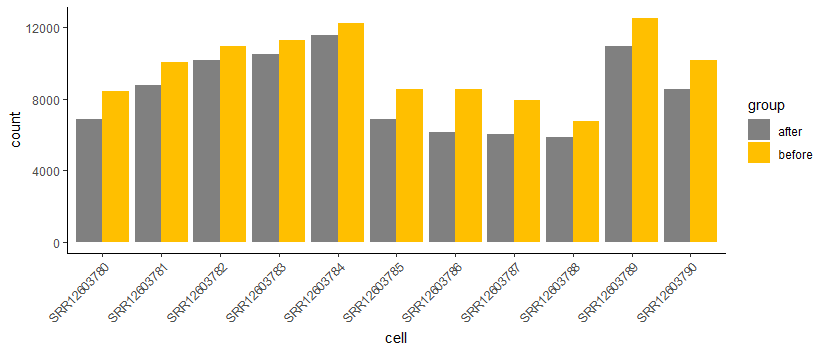
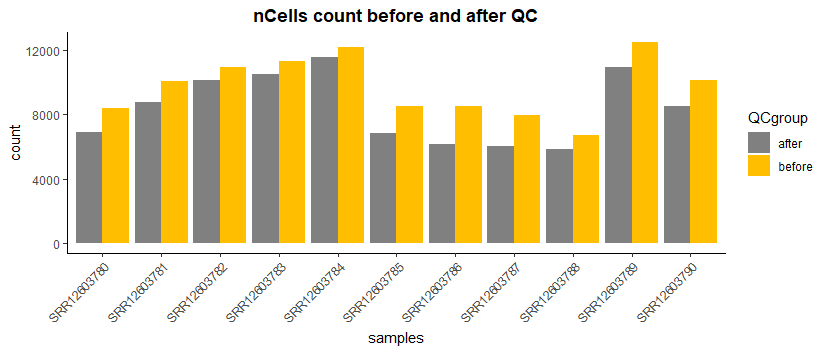
Add nUMI_nGene_mitoRatio

diff --git a/README.md b/README.md
@@ -398,12 +398,12 @@ metadata_clean <- filtered_seurat@meta.data
 # to see drop in filtering cells:
 
 met_before <- data.frame(unclass(table(metadata$seq_folder)))
-met_before$group <- "before"
+met_before$QCgroup <- "before"
 met_before$cell<- rownames(met_before)
 names(met_before)[1] <- 'count'
 
 met_after <- data.frame(unclass(table(metadata_clean$seq_folder)))
-met_after$group <- "after"
+met_after$QCgroup <- "after"
 met_after$cell<- rownames(met_after)
 names(met_after)[1] <- 'count'
 # count
@@ -411,63 +411,34 @@ cell_count <- data.frame(rbind(met_before, met_after))
 
                                 
 # visualization :
-cell_count %>% ggplot(aes(x=cell, y=count, fill=group)) + 
+cell_count %>% ggplot(aes(x=cell, y=count, fill=QCgroup)) + 
   geom_bar(stat="identity", position=position_dodge()) +
   theme_classic() +
   theme(axis.text.x = element_text(angle = 45, vjust = 1, hjust=1)) +
   theme(plot.title = element_text(hjust=0.5, face="bold")) +
-  scale_fill_manual(values = c("#808080", "#FFBF00"))
+  scale_fill_manual(values = c("#808080", "#FFBF00")) +
+  xlab("samples") +
   ggtitle("nCells count before and after QC")
 ```
 ![cell_countbefore_after_plot](https://github.com/hamidghaedi/scRNA_seq-analysis/blob/main/images/before_after_cell_count.png)
 
 ```r
-# Visualize the number UMIs/transcripts per cell
-metadata_clean %>% 
-  ggplot(aes(color=seq_folder, x=nUMI, fill= sample)) + 
-  geom_density(alpha = 0.2) + 
-  scale_x_log10() + 
-  theme_classic() +
-  ylab("Cell density") +
-  geom_vline(xintercept = 500)
-
-# Visualize the distribution of genes detected per cell via histogram
-metadata_clean %>% 
-  ggplot(aes(color=seq_folder, x=nGene, fill= sample)) + 
-  geom_density(alpha = 0.2) + 
-  theme_classic() +
-  scale_x_log10() + 
-  geom_vline(xintercept = 300)
-
-# Visualize the overall complexity of the gene expression by visualizing the genes detected per UMI (novelty score)
-metadata_clean %>%
-  ggplot(aes(x=log10GenesPerUMI, color = sample, fill=sample)) +
-  geom_density(alpha = 0.2) +
-  theme_classic() +
-  geom_vline(xintercept = 0.8)
-
-# Visualize the distribution of mitochondrial gene expression detected per cell
-metadata_clean %>% 
-  ggplot(aes(color=seq_folder, x=mitoRatio, fill=sample)) + 
-  geom_density(alpha = 0.2) + 
-  scale_x_log10() + 
-  theme_classic() +
-  geom_vline(xintercept = 0.2)
-
 # Visualize the correlation between genes detected and number of UMIs and determine whether strong presence of cells with low numbers of genes/UMIs
+
 metadata_clean %>% 
-  ggplot(aes(x=nUMI, y=nGene, color=mitoRatio)) + 
-  geom_point() + 
-  scale_colour_gradient(low = "gray90", high = "black") +
-  stat_smooth(method=lm) +
-  scale_x_log10() + 
-  scale_y_log10() + 
-  theme_classic() +
-  geom_vline(xintercept = 500) +
-  geom_hline(yintercept = 250) +
-  facet_wrap(~sample)
+  	ggplot(aes(x=nUMI, y=nGene, color=mitoRatio)) + 
+  	geom_point() + 
+  	scale_colour_gradient(low = "gray90", high = "black") +
+  	stat_smooth(method=lm) +
+  	scale_x_log10() + 
+  	scale_y_log10() + 
+  	theme_classic() +
+  	geom_vline(xintercept = 1000) +
+  	geom_hline(yintercept = 500) +
+  	facet_wrap(~seq_folder)
   
 ```
+![nUMI_nGene_mitoRatio_plot](https://github.com/hamidghaedi/scRNA_seq-analysis/blob/main/images/nUMI_nGene_mitoRatio_after.png)
 
 ## 5) Normalization and regressing out unwanted variation
 
